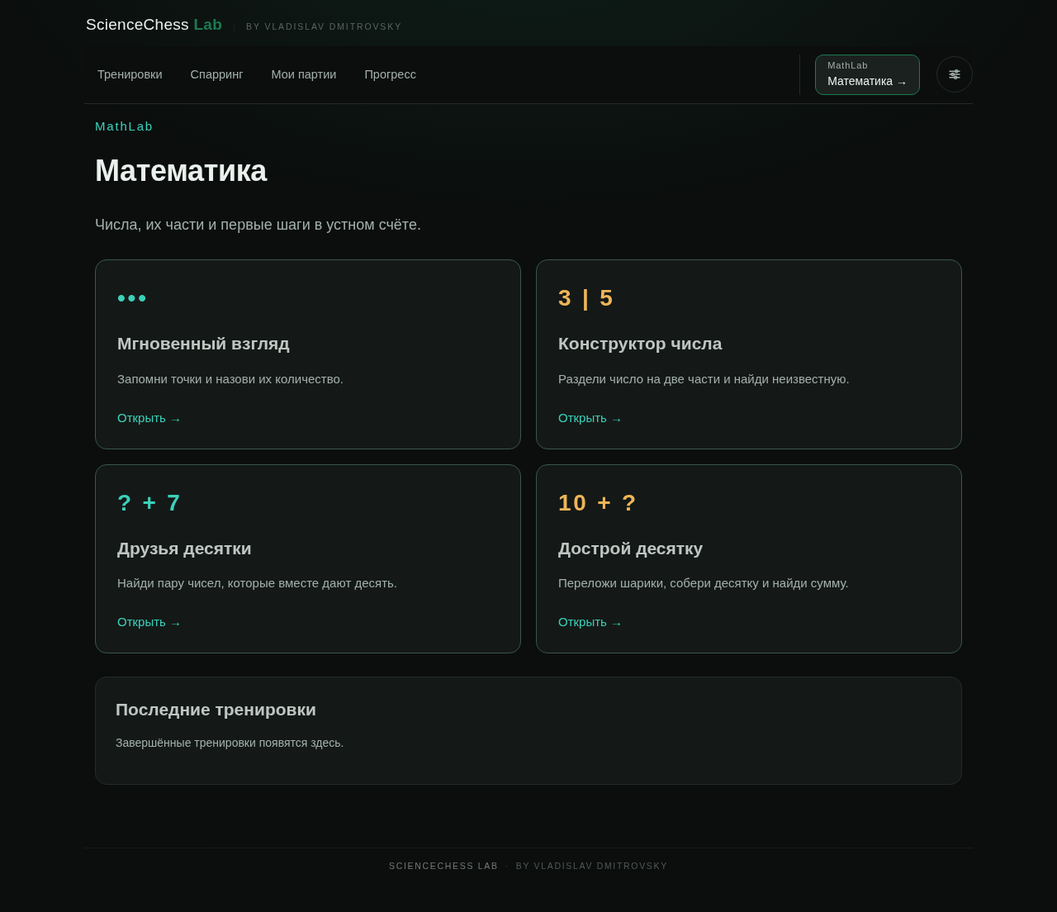
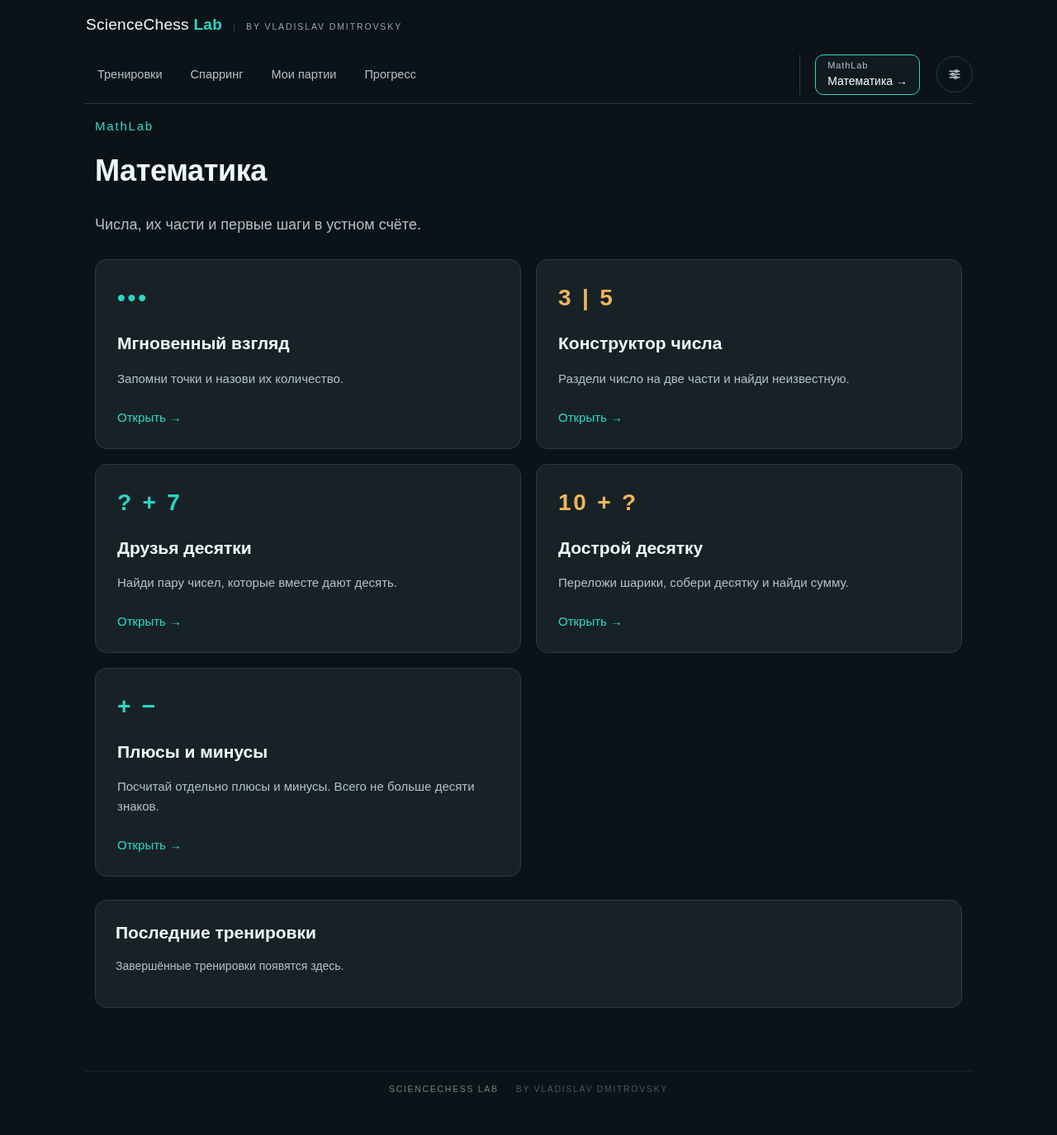
Add interactive plus and minus counting exercise to MathLab

diff --git a/src/modules/mathlab/index.ts b/src/modules/mathlab/index.ts
@@ -1,13 +1,13 @@
 import type {AppContext,MountFn,Unmount} from '../../main';
 import {el,button} from '../../core/ui';
-import {defaults,generate,split,validBridge,createBoxes,occupied,transfer,undo,TITLES,EXERCISES,type Exercise,type MathSettings,type Task,type Boxes} from './logic';
+import {defaults,generate,signLayout,split,validBridge,createBoxes,occupied,transfer,undo,TITLES,EXERCISES,type Exercise,type MathSettings,type Task,type Boxes} from './logic';
 import {MathSeries,type MathResult} from './engine';
 import {mathStorage} from './storage';
 import {dots,tenFrame,mountBoxes} from './visuals';
 import './styles.css';
 const route=(id:Exercise)=>`#math-${id}`;
-const descriptions:Record<Exercise,string>={glance:'Запомни точки и назови их количество.',builder:'Раздели число на две части и найди неизвестную.',friends:'Найди пару чисел, которые вместе дают десять.',bridge:'Переложи шарики, собери десятку и найди сумму.'};
-const symbols:Record<Exercise,string>={glance:'•••',builder:'3 | 5',friends:'? + 7',bridge:'10 + ?'};
+const descriptions:Record<Exercise,string>={glance:'Запомни точки и назови их количество.',builder:'Раздели число на две части и найди неизвестную.',friends:'Найди пару чисел, которые вместе дают десять.',bridge:'Переложи шарики, собери десятку и найди сумму.',signs:'Посчитай отдельно плюсы и минусы. Всего не больше десяти знаков.'};
+const symbols:Record<Exercise,string>={glance:'•••',builder:'3 | 5',friends:'? + 7',bridge:'10 + ?',signs:'+ −'};
 function stat(label:string,value:string):HTMLElement{return el('div',{class:'ml-stat'},[el('span',{},[label]),el('strong',{},[value])]);}
 function history(host:HTMLElement,results:MathResult[]):void {
  host.replaceChildren();if(!results.length){host.append(el('p',{class:'ml-muted'},['Завершённые тренировки появятся здесь.']));return;}
@@ -27,7 +27,7 @@ export function mathExercise(id:Exercise):MountFn{return(root,ctx)=>mountExercis
 function mountExercise(root:HTMLElement,ctx:AppContext,id:Exercise):Unmount {
  const store=mathStorage(ctx.profile.id);let settings=store.settings(id);
  // Exploration is meaningful only in the two manipulatives.
- if((id==='glance'||id==='friends')&&settings.mode==='explore')settings.mode='learn';
+ if((id==='glance'||id==='friends'||id==='signs')&&settings.mode==='explore')settings.mode='learn';
  const page=el('div',{class:'mathlab','data-exercise':id});root.append(page);
  page.append(el('a',{href:'#math',class:'ml-back'},['← Математика']),el('h1',{},[TITLES[id]]));
  const settingsDetails=el('details',{class:'ml-panel ml-settings',open:''},[el('summary',{},['Настройки'])]);
@@ -117,6 +117,7 @@ function mountExercise(root:HTMLElement,ctx:AppContext,id:Exercise):Unmount {
   if(series.complete){finish();return;}
   task=generate(id,settings,Math.random,task??undefined);series.begin();phase='answer';taskStart=performance.now();
   progress.textContent=`Задание ${series.answers.length+1} из ${settings.count}`;
+  if(id==='signs'){drawSigns();return;}
   if(id==='glance'){drawGlance();return;}
   if(id==='builder')drawMissing();
   if(id==='friends')drawFriends();
@@ -164,14 +165,14 @@ function mountExercise(root:HTMLElement,ctx:AppContext,id:Exercise):Unmount {
  }
  function retry(){
   if(!task)return;clear();reviewing=true;feedback.replaceChildren();phase='answer';taskStart=performance.now();
-  if(id==='glance')drawGlance();else if(id==='builder')drawMissing();else if(id==='friends')drawFriends();else{boxes=createBoxes(task.a,task.b);drawBridge();}
+  if(id==='glance')drawGlance();else if(id==='builder')drawMissing();else if(id==='friends')drawFriends();else if(id==='signs')drawSigns();else{boxes=createBoxes(task.a,task.b);drawBridge();}
  }
  function finish(){
   clear();if(!series)return;const result=series.finish();series=null;phase='done';
   if(!store.saveResult(result))savedNotice.textContent='Результат доступен в этой вкладке. Постоянное сохранение сейчас недоступно.';
   fields.disabled=false;stop.hidden=true;restart.hidden=true;start.hidden=false;start.textContent='Новая серия';progress.textContent='Тренировка завершена';feedback.replaceChildren();
   surface.replaceChildren(el('div',{class:'ml-stats'},[stat('Верно',`${result.correct} из ${result.answers.length}`),stat('Точность',`${Math.round(result.correct/result.answers.length*100)}%`),stat('Ошибок',String(result.errors)),stat('С подсказкой',String(result.hints))]));
-  const wrong=result.answers.filter(a=>!a.correct);if(wrong.length){const values=[...new Set(wrong.map(a=>id==='friends'?`${a.task.a} + ${a.task.b}`:id==='bridge'?`${a.task.a} + ${a.task.b}`:String(a.task.whole)))];surface.append(el('p',{},[`Можно повторить: ${values.join(', ')}.`]));}
+  const wrong=result.answers.filter(a=>!a.correct);if(wrong.length){const values=[...new Set(wrong.map(a=>id==='friends'?`${a.task.a} + ${a.task.b}`:id==='bridge'?`${a.task.a} + ${a.task.b}`:id==='signs'?`Плюсы ${a.task.a}, минусы ${a.task.b}`:String(a.task.whole)))];surface.append(el('p',{},[`Можно повторить: ${values.join(', ')}.`]));}
   refreshHistory();
  }
  function builderVisual(whole:number,a:number,flipped=false):HTMLElement {
@@ -187,6 +188,38 @@ function mountExercise(root:HTMLElement,ctx:AppContext,id:Exercise):Unmount {
   const changeWhole=(value:number)=>{whole=Math.max(2,Math.min(10,Number.isInteger(value)?value:2));wholeInput.value=String(whole);part=Math.min(part,whole);update();};
   wholeInput.addEventListener('change',()=>changeWhole(Number(wholeInput.value)));slider.addEventListener('input',()=>{part=Number(slider.value);update();});
   surface.append(el('div',{class:'ml-whole-picker'},[button('−',()=>changeWhole(whole-1)),el('label',{},['Число ',wholeInput]),button('+',()=>changeWhole(whole+1))]),eq,visual,el('p',{class:'ml-legend'},['Передвигай разделитель или нажимай на шкалу']),rail,el('div',{class:'ml-legend'},['● Первая группа · ◉ Вторая группа']),button('Поменять местами',()=>{part=whole-part;flipped=!flipped;update();}));update();
+ }
+ function drawSigns(){
+  if(!task)return;
+  surface.replaceChildren(el('p',{class:'ml-instruction'},['Сколько здесь плюсов и сколько минусов? Знаки можно отмечать, чтобы не сбиться.']));
+  const board=el('div',{class:'ml-sign-board',role:'group','aria-label':'Поле со знаками'});
+  const symbols=signLayout(task.a,task.b);
+  for(const symbol of symbols){
+   if(!symbol){board.append(el('span',{'aria-hidden':'true'}));continue;}
+   const tile=el('button',{type:'button',class:`ml-sign-tile ${symbol==='+'?'ml-sign-plus':'ml-sign-minus'}`,'aria-label':symbol==='+'?'Плюс':'Минус','aria-pressed':'false'},[el('span',{'aria-hidden':'true'},[symbol])]);
+   tile.addEventListener('click',()=>{const marked=tile.getAttribute('aria-pressed')!=='true';tile.setAttribute('aria-pressed',String(marked));});board.append(tile);
+  }
+  const form=el('form',{class:'ml-sign-form'});const answers:(number|null)[]=[null,null];const outputs:HTMLElement[]=[];const groups:HTMLElement[]=[];
+  const check=el('button',{type:'submit',class:'btn ml-primary'},['Проверить']);check.disabled=true;
+  for(const [index,title] of ['Плюсы','Минусы'].entries()){
+   const output=el('output',{'aria-label':`Количество: ${title.toLowerCase()}`,'aria-live':'polite'},['—']);outputs.push(output);
+   const group=el('div',{class:'ml-sign-answer',role:'group','aria-label':`Ответ: ${title.toLowerCase()}`},[el('h3',{},[title]),output]);
+   const keys=el('div',{class:'ml-sign-keys'});
+   for(let value=0;value<=10;value++){
+    const key=el('button',{type:'button',class:'btn','aria-pressed':'false'},[String(value)]);
+    key.addEventListener('click',()=>{if(phase!=='answer')return;answers[index]=value;output.textContent=String(value);keys.querySelectorAll('button').forEach(b=>b.setAttribute('aria-pressed',String(b===key)));check.disabled=answers.some(v=>v===null);});keys.append(key);
+   }
+   group.append(keys);groups.push(group);form.append(group);
+  }
+  form.append(check);surface.append(board,form);
+  form.addEventListener('submit',event=>{
+   event.preventDefault();if(phase!=='answer'||answers.some(v=>v===null)||!task)return;
+   const expected=[task.a,task.b];const correct=answers.every((v,i)=>v===expected[i]);
+   submit(correct,`${answers[0]}, ${answers[1]}`);
+   feedback.querySelector('p')!.textContent=correct?'Верно!':`Плюсов: ${task.a}. Минусов: ${task.b}.`;
+   groups.forEach((group,i)=>{group.classList.add(answers[i]===expected[i]?'ml-sign-correct':'ml-sign-wrong');group.append(el('p',{},[answers[i]===expected[i]?'✓ Верно':`× Ответ: ${expected[i]}. У тебя: ${answers[i]}.`]));});
+   const counters={'+':0,'−':0};board.querySelectorAll<HTMLButtonElement>('button').forEach(tile=>{const symbol=tile.classList.contains('ml-sign-plus')?'+':'−';counters[symbol]++;tile.append(el('small',{'aria-hidden':'true'},[String(counters[symbol])]));});
+  });
  }
  function drawMissing(){if(!task)return;surface.replaceChildren(expression(`${task.whole} = ${task.missingFirst?'?':task.a} + ${task.missingFirst?task.b:'?'}`));const answer=answerForm((v,text)=>submit(v[0]===task!.answer,text));surface.append(answer.form);}
  function drawFriends(){if(!task)return;const text=`${task.missingFirst?'?':task.a} + ${task.missingFirst?task.b:'?'}`;surface.replaceChildren(expression(task.reverse?`10 = ${text}`:`${text} = 10`));

diff --git a/src/modules/mathlab/logic.ts b/src/modules/mathlab/logic.ts
@@ -1,4 +1,4 @@
-export const EXERCISES = ['glance', 'builder', 'friends', 'bridge'] as const;
+export const EXERCISES = ['glance', 'builder', 'friends', 'bridge', 'signs'] as const;
 export type Exercise = typeof EXERCISES[number];
 export interface MathSettings {
   mode: 'learn' | 'train' | 'explore'; count: number; min: number; max: number;
@@ -6,17 +6,17 @@ export interface MathSettings {
   unknown: 'first' | 'second' | 'random'; level: number; frame: boolean;
   whole: number; part: number; auto: boolean; edges: boolean; numbers: number[]; a: number; b: number;
 }
-export const TITLES: Record<Exercise,string> = {glance:'Мгновенный взгляд',builder:'Конструктор числа',friends:'Друзья десятки',bridge:'Дострой десятку'};
+export const TITLES: Record<Exercise,string> = {glance:'Мгновенный взгляд',builder:'Конструктор числа',friends:'Друзья десятки',bridge:'Дострой десятку',signs:'Плюсы и минусы'};
 export function defaults(id:Exercise):MathSettings {
-  return {mode:id==='builder'||id==='bridge'?'explore':'learn',count:10,min:id==='builder'?2:1,max:id==='builder'?10:4,
+  return {mode:id==='builder'||id==='bridge'?'explore':'learn',count:10,min:id==='builder'||id==='signs'?2:1,max:id==='builder'||id==='signs'?10:4,
     exposure:1000,moving:false,layout:'standard',unknown:'random',level:1,frame:true,whole:8,part:8,auto:false,edges:false,numbers:[1,2,3,4,5,6,7,8,9],a:8,b:5};
 }
 const integer=(v:unknown,fallback:number,min:number,max:number)=>typeof v==='number'&&Number.isInteger(v)&&v>=min&&v<=max?v:fallback;
 export function sanitize(id:Exercise,raw:unknown):MathSettings {
   const d=defaults(id);if(!raw||typeof raw!=='object')return d;
-  const r=raw as Partial<MathSettings>;const min=integer(r.min,d.min,id==='builder'?2:1,10);
+  const r=raw as Partial<MathSettings>;const min=integer(r.min,d.min,id==='builder'||id==='signs'?2:1,10);
   return {...d,mode:r.mode&&['learn','train','explore'].includes(r.mode)?r.mode:d.mode,
-    count:[5,10,20,30].includes(r.count!)?r.count!:d.count,min,max:Math.max(min,integer(r.max,d.max,id==='builder'?2:1,10)),
+    count:[5,10,20,30].includes(r.count!)?r.count!:d.count,min,max:Math.max(min,integer(r.max,d.max,id==='builder'||id==='signs'?2:1,10)),
     exposure:[500,1000,2000,3000,5000].includes(r.exposure!)?r.exposure!:d.exposure,
     moving:typeof r.moving==='boolean'?r.moving:false,
     layout:r.layout&&['standard','groups','random'].includes(r.layout)?r.layout:d.layout,
@@ -40,10 +40,11 @@ export function generate(id:Exercise,s:MathSettings,rng:Rng=Math.random,previous
   for(let attempt=0;;attempt++){
     let a=0,b=0,whole=0;let missingFirst=s.unknown==='first'||s.unknown==='random'&&rng()<.5;
     if(id==='glance'){whole=pickInt(rng,s.min,s.max);a=whole;}
+    if(id==='signs'){whole=pickInt(rng,Math.max(2,s.min),s.max);a=pickInt(rng,1,whole-1);b=whole-a;}
     if(id==='builder'){whole=pickInt(rng,s.min,s.max);a=pickInt(rng,0,whole);b=whole-a;}
     if(id==='friends'){const ns=s.edges?[...s.numbers,0,10]:s.numbers;a=ns[pickInt(rng,0,ns.length-1)];b=complement(a);whole=10;missingFirst=s.level===3&&rng()<.5;}
     if(id==='bridge'){a=pickInt(rng,2,9);b=pickInt(rng,11-a,9);whole=a+b;}
-    task={a,b,whole,answer:id==='bridge'||id==='glance'?whole:missingFirst?a:b,missingFirst,reverse:id==='friends'&&s.level===3&&rng()<.5};
+    task={a,b,whole,answer:id==='bridge'||id==='glance'||id==='signs'?whole:missingFirst?a:b,missingFirst,reverse:id==='friends'&&s.level===3&&rng()<.5};
     if(attempt>=10||!previous||JSON.stringify(task)!==JSON.stringify(previous))return task;
   }
 }
@@ -73,3 +74,11 @@ export function transfer(s:Boxes,from:number,to:number):Boxes {
   return {...s,left,right,history:[...s.history,{left:s.left,right:s.right}]};
 }
 export function undo(s:Boxes):Boxes {const prev=s.history.at(-1);return prev?{...s,...prev,history:s.history.slice(0,-1)}:s;}
+
+/** Twelve fixed slots keep every symbol separate, including on narrow screens. */
+export function signLayout(plus:number,minus:number,rng:Rng=Math.random):('+'|'−'|null)[]{
+ if(!Number.isInteger(plus)||!Number.isInteger(minus)||plus<0||minus<0||plus+minus<1||plus+minus>10)throw Error('На поле от 1 до 10 знаков');
+ const slots:('+'|'−'|null)[]=[...Array(plus).fill('+'),...Array(minus).fill('−'),...Array(12-plus-minus).fill(null)];
+ for(let i=slots.length-1;i>0;i--){const j=pickInt(rng,0,i);[slots[i],slots[j]]=[slots[j],slots[i]];}
+ return slots;
+}

diff --git a/tests/mathlab-ui.test.ts b/tests/mathlab-ui.test.ts
@@ -95,3 +95,19 @@ it.each([true,false])('keeps keypad answers usable without opening the touch key
  field.focus();field.value='0';root.querySelector('form')!.dispatchEvent(new Event('submit',{cancelable:true}));
  expect(root.textContent).toContain('Правильный ответ');
 });
+
+it('lets children count signs with buttons, marks and feedback without an editable field or timer',async()=>{
+ const context=ctx();unmount=mathExercise('signs')(root,context);select('Заданий в серии','5');button('Начать').click();
+ const count=()=>[root.querySelectorAll('.ml-sign-plus').length,root.querySelectorAll('.ml-sign-minus').length];
+ const choose=(i:number,n:number)=>[...root.querySelectorAll('.ml-sign-answer')[i].querySelectorAll<HTMLButtonElement>('button')].find(b=>b.textContent===String(n))!.click();
+ expect(root.querySelector('input')).toBeNull();expect(button('Проверить').disabled).toBe(true);
+ const first=count();expect(first[0]+first[1]).toBeLessThanOrEqual(10);
+ const tile=root.querySelector<HTMLButtonElement>('.ml-sign-tile')!;tile.click();expect(tile.getAttribute('aria-pressed')).toBe('true');tile.click();expect(tile.getAttribute('aria-pressed')).toBe('false');
+ await vi.advanceTimersByTimeAsync(120000);expect(count()).toEqual(first);
+ choose(0,0);expect(button('Проверить').disabled).toBe(true);choose(1,first[1]);button('Проверить').click();
+ expect(root.querySelectorAll('.ml-sign-wrong')).toHaveLength(1);expect(root.querySelectorAll('.ml-sign-correct')).toHaveLength(1);expect(root.textContent).toContain(`Плюсов: ${first[0]}`);
+ button('Попробовать ещё раз').click();choose(0,first[0]);choose(1,first[1]);button('Проверить').click();button('Далее').click();
+ for(let i=0;i<4;i++){const n=count();choose(0,n[0]);choose(1,n[1]);button('Проверить').click();button(i===3?'Результат':'Далее').click();}
+ expect(root.textContent).toContain('4 из 5');expect(root.textContent).toContain('80%');
+ expect(localStorage.getItem(`sciencechess-mathlab:v1:${context.profile.id}:results`)).toContain('"exercise":"signs"');
+});

diff --git a/src/modules/mathlab/styles.css b/src/modules/mathlab/styles.css
@@ -40,3 +40,20 @@
 .mathlab .ml-setting-group .ml-field:has(select[aria-label="Количество точек"]){grid-column:1/-1}
 .mathlab .ml-setting-group:first-child>h3{display:none}
 .mathlab .ml-settings .ml-field{opacity:1}
+
+.mathlab .ml-sign-board{display:grid;grid-template-columns:repeat(4,minmax(0,1fr));gap:12px;max-width:480px;margin:24px auto;padding:16px;border:1px solid var(--ml-line);border-radius:12px;background:var(--well)}
+.mathlab .ml-sign-board>span{aspect-ratio:1}
+.mathlab .ml-sign-tile{position:relative;aspect-ratio:1;min-height:44px;border:1px solid var(--ml-line);border-radius:10px;background:var(--panel);font-size:clamp(30px,7vw,52px);font-weight:600;color:var(--ml-teal);cursor:pointer;line-height:1}
+.mathlab .ml-sign-minus{color:var(--ml-amber)}
+.mathlab .ml-sign-tile[aria-pressed=true]{outline:2px solid currentColor;outline-offset:2px;background:var(--ml-bg)}
+.mathlab .ml-sign-tile[aria-pressed=true]::after{content:'✓';position:absolute;right:5px;top:5px;font-size:14px}
+.mathlab .ml-sign-tile:disabled{opacity:1}
+.mathlab .ml-sign-tile small{position:absolute;bottom:4px;right:6px;font-size:14px}
+.mathlab .ml-sign-form{display:grid;grid-template-columns:repeat(2,minmax(0,1fr));gap:20px;margin-top:24px}
+.mathlab .ml-sign-answer{padding:20px;border:1px solid var(--ml-line);border-radius:12px;background:var(--well)}
+.mathlab .ml-sign-answer output{display:block;font-size:32px;font-variant-numeric:tabular-nums;min-height:48px;margin-bottom:12px}
+.mathlab .ml-sign-keys{display:grid;grid-template-columns:repeat(4,minmax(0,1fr));gap:8px}
+.mathlab .ml-sign-keys .btn{min-width:44px;min-height:44px;padding:8px}
+.mathlab .ml-sign-form>button{grid-column:1/-1;justify-self:center;min-width:160px}
+.mathlab .ml-sign-correct{border-color:var(--ml-teal)}.mathlab .ml-sign-wrong{border-color:var(--ml-amber)}
+@media(max-width:650px){.mathlab .ml-sign-form{grid-template-columns:minmax(0,1fr)}.mathlab .ml-sign-board{gap:8px;padding:10px}.mathlab .ml-sign-answer{padding:16px}}

diff --git a/tests/mathlab-logic.test.ts b/tests/mathlab-logic.test.ts
@@ -1,5 +1,5 @@
 import {describe,it,expect} from 'vitest';
-import {defaults,sanitize,split,complement,generate,dotLayout,createBoxes,transfer,undo,occupied,validBridge} from '../src/modules/mathlab/logic';
+import {defaults,sanitize,split,complement,generate,signLayout,dotLayout,createBoxes,transfer,undo,occupied,validBridge} from '../src/modules/mathlab/logic';
 import {MathSeries} from '../src/modules/mathlab/engine';
 import {mathStorage} from '../src/modules/mathlab/storage';
 const rng=(seed:number)=>()=>((seed=(Math.imul(seed,1664525)+1013904223)>>>0)/4294967296);
@@ -42,4 +42,14 @@ describe('MathLab mathematical invariants',()=>{
   expect(sanitize('builder',{min:20,max:-1,count:17,whole:5,part:9}).part).toBe(5);
   expect(sanitize('friends',{numbers:[]}).numbers).toHaveLength(9);
  });
+});
+
+it('generates both kinds of signs with at most ten symbols and deterministic shuffled slots',()=>{
+ const random=rng(47),same=rng(47);const settings=defaults('signs');
+ for(let i=0;i<500;i++){
+  const task=generate('signs',settings,random);expect(task).toEqual(generate('signs',settings,same));
+  expect(task.a).toBeGreaterThan(0);expect(task.b).toBeGreaterThan(0);expect(task.a+task.b).toBe(task.whole);expect(task.whole).toBeLessThanOrEqual(10);
+  const slots=signLayout(task.a,task.b,rng(i));expect(slots).toHaveLength(12);expect(slots.filter(s=>s==='+')).toHaveLength(task.a);expect(slots.filter(s=>s==='−')).toHaveLength(task.b);expect(slots).toEqual(signLayout(task.a,task.b,rng(i)));
+ }
+ for(const pair of [[-1,2],[6,5],[0,0],[1.5,2]])expect(()=>signLayout(pair[0],pair[1])).toThrow();
 });

diff --git a/src/main.ts b/src/main.ts
@@ -97,7 +97,7 @@ const SETTINGS_TAB: Tab = { id: 'calibration', label: 'Настройки', moun
 
 const MATH_TABS: Tab[] = [
   { id: 'math', label: 'Математика', mount: mountMathLab },
-  ...(['glance', 'builder', 'friends', 'bridge'] as const).map(id => ({ id: `math-${id}`, label: 'Математика', mount: mathExercise(id) })),
+  ...(['glance', 'builder', 'friends', 'bridge', 'signs'] as const).map(id => ({ id: `math-${id}`, label: 'Математика', mount: mathExercise(id) })),
 ];
 const ALL_TABS: Tab[] = [...MATH_TABS, ...TRAINING_TABS, SCRAMBLE_TAB, GAMES_TAB, DATA_TAB, SETTINGS_TAB];
 

diff --git a/docs/mathlab/README.md b/docs/mathlab/README.md
@@ -1,6 +1,6 @@
 # MathLab 1.0
 
-MathLab добавляет пункт **Математика** в существующий Chesslab. Четыре упражнения используют текущий TypeScript/Vite, DOM-компоненты и hash-навигацию. Новый фреймворк, сервер и регистрация не добавлены. Существующие вход и профиль приложения сохранены.
+MathLab добавляет пункт **Математика** в существующий Chesslab. Пять упражнений используют текущий TypeScript/Vite, DOM-компоненты и hash-навигацию. Новый фреймворк, сервер и регистрация не добавлены. Существующие вход и профиль приложения сохранены.
 
 ## Упражнения
 
@@ -10,6 +10,8 @@ MathLab добавляет пункт **Математика** в существ
 - **Дострой десятку** (`#math-bridge`): свободный ввод двух чисел и генерация примеров с переходом через десяток. Две коробки по десять ячеек; мышь, Pointer Events для касаний, клавиатура и выбор «шарик → ячейка». Перенос в занятую ячейку или за пределы коробки отклоняется. Отмена и сброс; идентичность и исходные цвета объектов сохраняются. Два наглядных уровня и мысленный режим с тремя ответами (до десятки, остаток, сумма). Демонстрация в мысленном режиме доступна после проверки. До завершения переноса готовое разложение не показывается.
 
 Серии содержат 5, 10, 20 или 30 задач. Исследование не оценивается. В оцениваемой серии засчитывается первая самостоятельная попытка: повтор после разбора не переписывает точность. Подсказки и время ответа хранятся отдельно. Обязательного таймера ответа нет. Можно начать серию заново, завершить её или восстановить настройки.
+
+- **Плюсы и минусы** (`#math-signs`): случайное поле из 2–10 знаков суммарно; оба вида присутствуют. Можно отмечать знаки галочками и отдельно выбирать число плюсов и минусов кнопками 0–10. Экранная клавиатура не нужна. Без ограничения времени; проверка обоих ответов, нумерация знаков и отметки ошибок, ручной переход дальше. Учитывается первая попытка, повторный просмотр не повышает точность. Настройки серии и результаты сохраняются общим локальным хранилищем, старые результаты сохранены.
 
 ## Архитектура и файлы
 
@@ -51,7 +53,7 @@ CHROMIUM_EXECUTABLE_PATH=/usr/bin/chromium npm run test:touch
 
 Автоматически проверяются все разложения 2–10 и дополнения 0–10, детерминированная генерация, точное количество и расположение точек, таймеры и фон, защита от двойной записи, перезапуск, повторные попытки. Для переноса проверены 8+5, 7+6, 6+6, 9+8, 9+9, неизменность суммы и идентичности объектов, запрет недопустимых переносов и отмена.
 
-Браузерный прогон использует компьютер 1280×1000, планшет 820×1180, телефон 390×844 и альбомный телефон 844×390. Проходит меню, прямые URL и перезагрузку, все четыре завершённые серии с ошибками, хранение, мышь/нативные касания/выбор ячеек, недопустимый перенос, отмену, отсутствие горизонтальной прокрутки и возврат в шахматное упражнение. Скриншоты находятся в `screenshots/`.
+Браузерный прогон использует компьютер 1280×1000, планшет 820×1180, телефон 390×844 и альбомный телефон 844×390. Проходит меню, прямые URL и перезагрузку, все пять завершённых серий с ошибками, хранение, мышь/нативные касания/выбор ячеек, недопустимый перенос, отмену, отсутствие горизонтальной прокрутки и возврат в шахматное упражнение. Скриншоты находятся в `screenshots/`.
 
 Проверка выполнялась Chromium и его сенсорной эмуляцией; физический iPad/Safari и конкретный screen reader не проверялись. Нет межустройственной синхронизации и серверного хранения — это границы первой версии, а не заявленные функции.
 
@@ -62,3 +64,7 @@ CHROMIUM_EXECUTABLE_PATH=/usr/bin/chromium npm run test:touch
 - 37 существующих сквозных проверок Chesslab прошли: бот, часы, премувы, PGN, сохранение/разбор/продолжение партии, страницы приложения и прокрутка.
 - Отдельный сенсорный прогон шахматных досок прошёл для режимов select/both/drag, обоих цветов, прокрутки, обычных ходов и премувов.
 - TypeScript и production-сборка Vite прошли. Скриншоты основных математических экранов созданы и просмотрены.
+
+## Обновление 28 октября 2026
+
+Добавлено упражнение «Плюсы и минусы». Прошли 1332 теста в 48 файлах, 276 браузерных проверок MathLab (компьютер, планшет, телефон, альбомная ориентация и ширина 320 px), TypeScript и сборка. Скриншоты задания и проверки: `screenshots/signs-*.png`, `screenshots/signs-result-*.png`.
